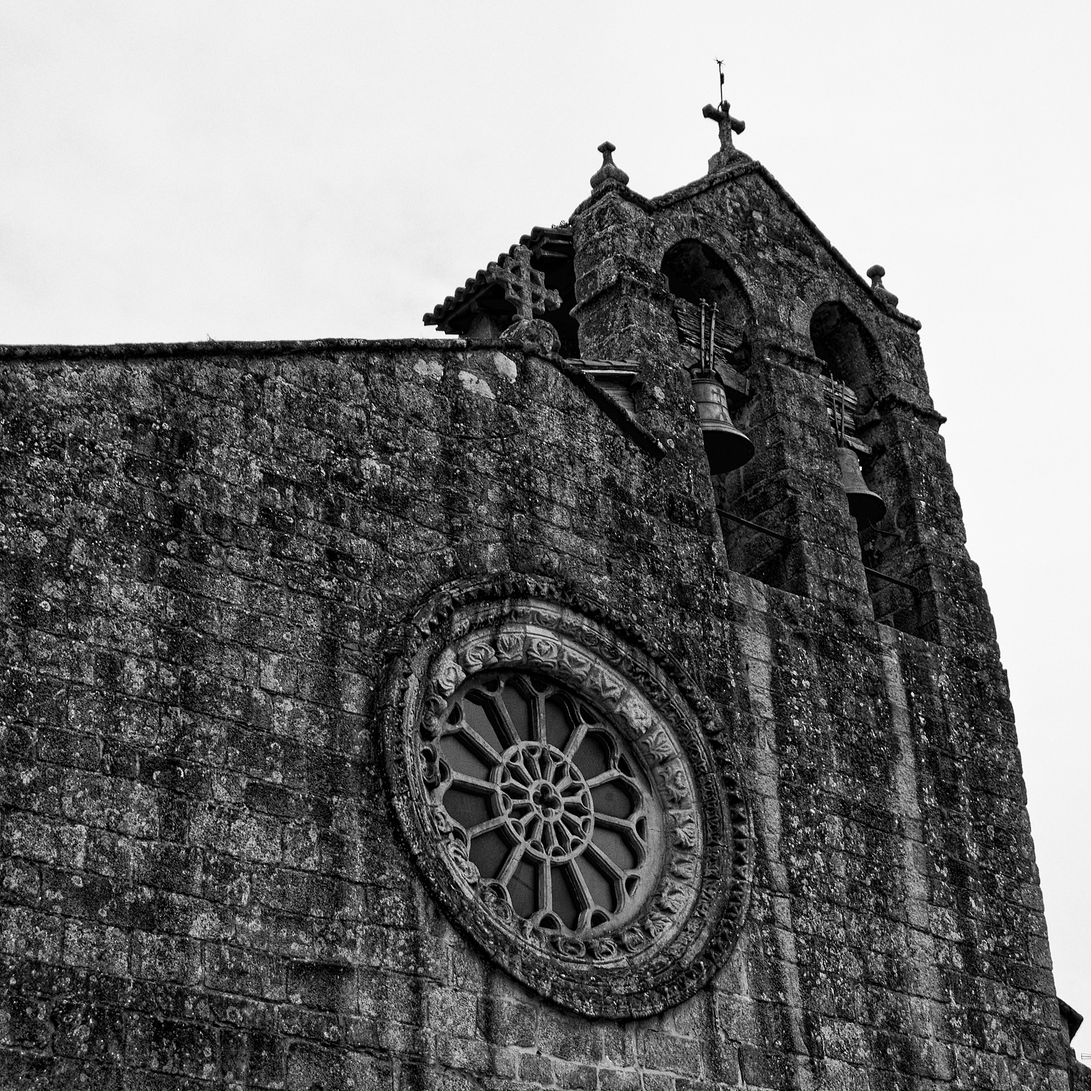
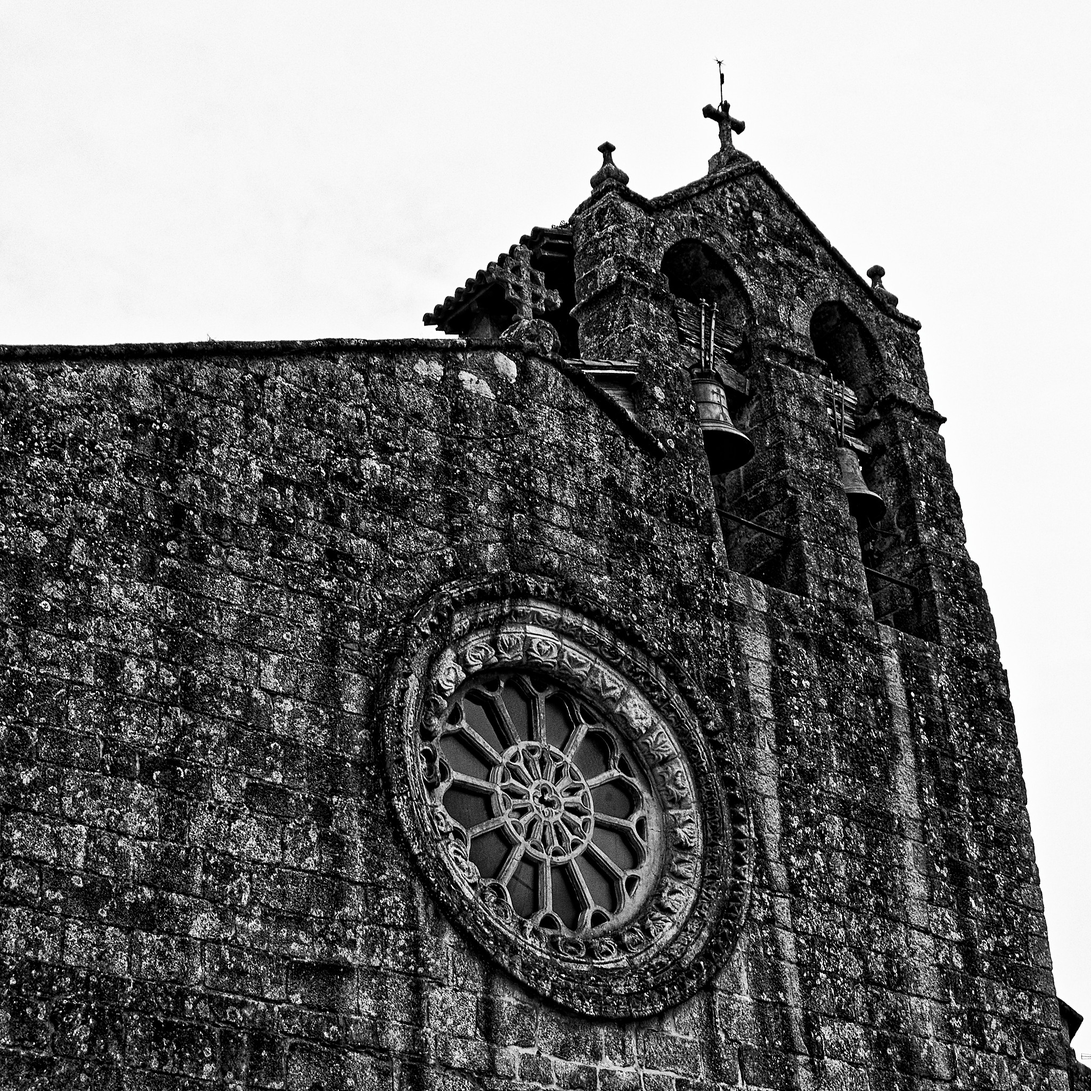
almost done 2015 spain

Changed region(s): [[0.0, 0.0938, 1.0, 1.0]]

diff --git a/src/routes/albums/2015Spain/+page.svelte b/src/routes/albums/2015Spain/+page.svelte
@@ -44,13 +44,15 @@
 	import bw20 from '../../../lib/images/2015Spain/2015-07-19-070649_Nik.jpg?enhanced';
 	import c20 from '../../../lib/images/2015Spain/2015-07-19-070649.jpg?enhanced';
 	import bw21 from '../../../lib/images/2015Spain/2015-08-11-193253_Nik.jpg?enhanced';
-	import c21 from '../../../lib/images/2015Spain/2015-07-19-070649.jpg?enhanced';
+	import c21 from '../../../lib/images/2015Spain/2015-08-11-193253.jpg?enhanced';
 	import bw22 from '../../../lib/images/2015Spain/2015-08-17-173450_Nik.jpg?enhanced';
 	import c22 from '../../../lib/images/2015Spain/2015-08-17-173450.jpg?enhanced';
 	import bw23 from '../../../lib/images/2015Spain/2015-08-17-173450_Nik.jpg?enhanced';
 	import c23 from '../../../lib/images/2015Spain/2015-08-17-173450.jpg?enhanced';
 	import bw24 from '../../../lib/images/2015Spain/2015-07-31-141626_Nik.jpg?enhanced';
 	import c24 from '../../../lib/images/2015Spain/2015-07-31-141626.jpg?enhanced';
+	import bw25 from '../../../lib/images/2015Spain/2015-07-31-141823_Nik.jpg?enhanced';
+	import c25 from '../../../lib/images/2015Spain/2015-07-31-141823.jpg?enhanced';
 
 	let hIndex = $state(0);
 	let vIndex = $state(0);
@@ -149,41 +151,14 @@
 			},
 			{ image: c12, caption: ' ' }
 		],
-		// [
-		// 	{
-		// 		image: bw13,
-		// 		caption: '. July, 2015'
-		// 	},
-		// 	{ image: c13, caption: ' ' }
-		// ],
-		// [
-		// 	{
-		// 		image: bw14,
-		// 		caption: '. July, 2015'
-		// 	},
-		// 	{ image: c14, caption: ' ' }
-		// ],
-		// [
-		// 	{
-		// 		image: bw15,
-		// 		caption: '. July, 2015'
-		// 	},
-		// 	{ image: c15, caption: ' ' }
-		// ],
-		// [
-		// 	{
-		// 		image: bw16,
-		// 		caption: '. July, 2015'
-		// 	},
-		// 	{ image: c16, caption: ' ' }
-		// ],
-		// [
-		// 	{
-		// 		image: bw17,
-		// 		caption: '. July, 2015'
-		// 	},
-		// 	{ image: c17, caption: ' ' }
-		// ],
+
+		[
+			{
+				image: bw15,
+				caption: 'Cantabria. July, 2015'
+			},
+			{ image: c15, caption: ' ' }
+		],
 		[
 			{
 				image: bw18,
@@ -191,31 +166,33 @@
 			},
 			{ image: c18, caption: ' ' }
 		],
-		// [
-		// 	{
-		// 		image: bw18,
-		// 		caption: 'Cantabria. July, 2015'
-		// 	},
-		// 	{ image: c18, caption: ' ' }
-		// ],
+
 		[
 			{
-				image: bw23,
-				caption: 'A h&oacute;rreo, elevated and rodent-proof grain storage. July, 2015'
+				image: bw19,
+				caption: 'A h&oacute;rreo, traditional elevated and rodent-proof grain storage. July, 2015'
 			},
-			{ image: c23, caption: ' ' }
+			{ image: c19, caption: ' ' }
 		],
 		[
 			{
 				image: bw24,
-				caption: 'Cantabria. July, 2015'
+				caption: 'Quiet trails through the trees. Cantabria. July, 2015'
 			},
 			{ image: c24, caption: ' ' }
 		],
 		[
 			{
+				image: bw25,
+				caption: 'Eucalyptus forest. Asturias. July, 2015'
+			},
+			{ image: c25, caption: ' ' }
+		],
+
+		[
+			{
 				image: bw21,
-				caption: 'church. August, 2015'
+				caption: 'Betanzos, Galicia. August, 2015'
 			},
 			{ image: c21, caption: ' ' }
 		],
@@ -223,13 +200,6 @@
 			{
 				image: bw22,
 				caption: 'Arch broken. August, 2015'
-			},
-			{ image: c22, caption: ' ' }
-		],
-		[
-			{
-				image: bw22,
-				caption: 'shadows. August, 2015'
 			},
 			{ image: c22, caption: ' ' }
 		]
